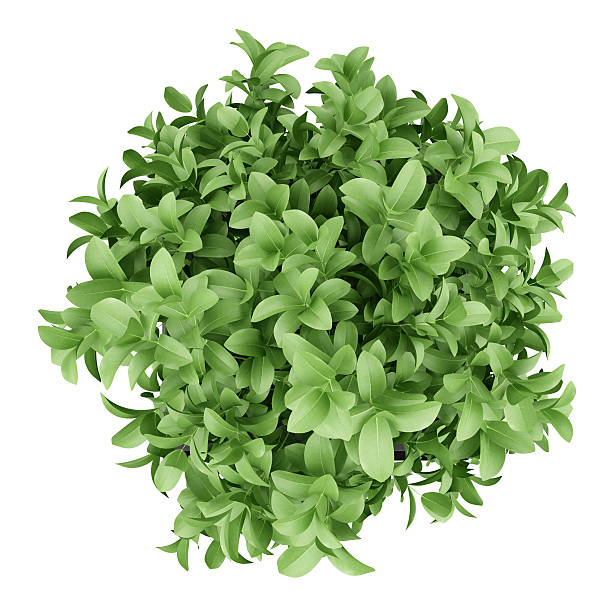
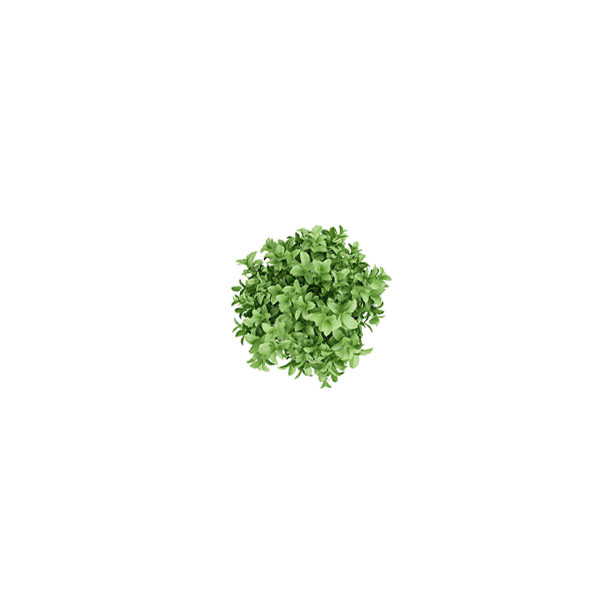
Add plant samples. Rework data mapping in App.jsx.

diff --git a/src/App.jsx b/src/App.jsx
@@ -1,63 +1,88 @@
 import { useState } from 'react'
 import React from 'react';
 import './App.css'
-import plantSampleAbove1 from './assets/plant-sample-above-5.jpg';
-import plantSampleAbove2 from './assets/plant-sample-above-4.jpg';
+import plantSampleAbove1 from './assets/plant-sample-above-1.jpg';
+import plantSampleAbove2 from './assets/plant-sample-above-2.jpg';
 import plantSampleAbove3 from './assets/plant-sample-above-3.jpg';
-import plantSampleAbove4 from './assets/plant-sample-above-2.jpg';
-import plantSampleAbove5 from './assets/plant-sample-above-1.jpg';
+import plantSampleAbove4 from './assets/plant-sample-above-4.jpg';
+import plantSampleAbove5 from './assets/plant-sample-above-5.jpg';
+import plantSampleAbove6 from './assets/plant-sample-above-6.jpg';
+import plantSampleAbove7 from './assets/plant-sample-above-7.jpg';
 import PlantCard from './PlantCard';
 
 function App() {
   const [imageSize, setImageSize] = useState(200);
+
+  const [plantImages, setPlantImages] = useState([
+    plantSampleAbove1,
+    plantSampleAbove2,
+    plantSampleAbove3,
+    plantSampleAbove4,
+    plantSampleAbove5,
+    plantSampleAbove6,
+    plantSampleAbove7,
+  ]);
+
   const [plantData, setPlantData] = useState([
     {
       day: 1,
       image: plantSampleAbove1,
-      coverage: 0.06,
+      coverage: 0.05,
     },
     {
       day: 2,
       image: plantSampleAbove2,
-      coverage: 0.1,
+      coverage: 0.06,
     },
     {
       day: 3,
       image: plantSampleAbove3,
-      coverage: 0.17,
+      coverage: 0.1,
     },
     {
       day: 4,
       image: plantSampleAbove4,
-      coverage: 0.3,
+      coverage: 0.17,
     },
     {
       day: 5,
       image: plantSampleAbove5,
+      coverage: 0.3,
+    },
+    {
+      day: 6,
+      image: plantSampleAbove6,
       coverage: 0.53,
     },
   ]);
+
+  const populatePlantData = () => {
+    const newPlantData = plantImages.map((index) => {
+      return {
+        day: index + 1,
+        image: plantImages[index],
+        coverage: plant.coverage,
+      }
+    })
+    setPlantData(newPlantData);
+  }
+
+  let dataTable = [['Day', 'Area Coverage']];
+
+  for (let i = 0; i < plantData.length; i++) {
+    dataTable.push([plantData[i].day, plantData[i].coverage]);
+  }
 
   google.charts.load('current', { 'packages': ['corechart'] });
   google.charts.setOnLoadCallback(drawChart);
 
   function drawChart() {
-    var data = google.visualization.arrayToDataTable([
-      ['Day', 'Area Coverage'],
-      ['1', plantData[0].coverage],
-      ['2', plantData[1].coverage],
-      ['3', plantData[2].coverage],
-      ['4', plantData[3].coverage],
-      ['5', plantData[4].coverage],
-    ]);
-
+    var data = google.visualization.arrayToDataTable(dataTable);
     var options = {
       curveType: 'function',
       legend: { position: 'bottom' }
     };
-
     var chart = new google.visualization.LineChart(document.getElementById('curve_chart'));
-
     chart.draw(data, options);
   }
 
